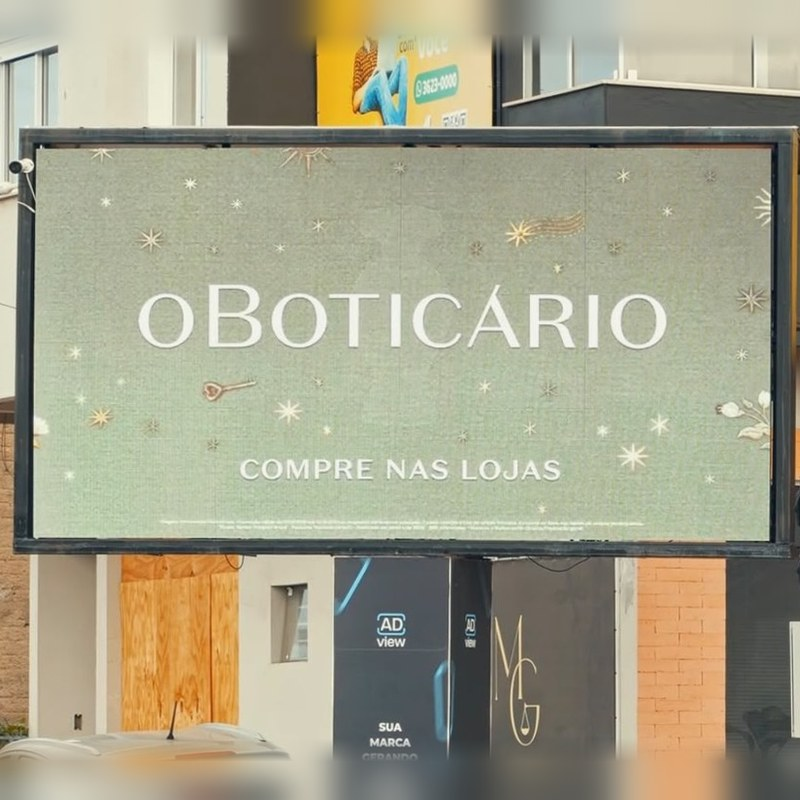
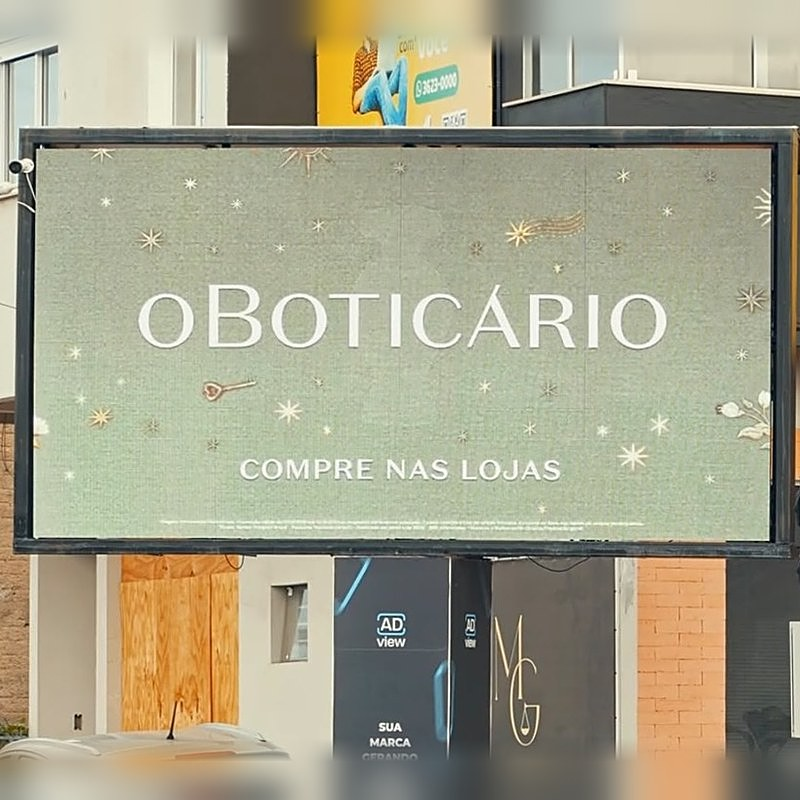
CUBO: grade da cidade limpa (sem etiquetas, sem zoom que corta, foto nítida de LED, crédito discreto)

diff --git a/cubo/index.html b/cubo/index.html
@@ -189,6 +189,7 @@ figure.ref:hover video,figure.ref:hover img{transform:scale(1.012);box-shadow:0 
 .cg{display:grid;grid-template-columns:minmax(0,1fr) minmax(0,1.15fr);background:#0a1530}
 .cg-left{display:flex;flex-direction:column;justify-content:center;padding-block:80px;padding-left:max(48px,env(safe-area-inset-left,0px));padding-right:48px}
 .cg-left p.t{max-width:30em}
+.cg-cred{font-size:12px;color:var(--muted);margin-top:28px;opacity:.75}
 .cg-grid{display:grid;grid-template-columns:repeat(3,minmax(0,1fr))}
 .tile{margin:0;aspect-ratio:1/1;max-width:100%;position:relative;overflow:hidden}
 .tile.tx{background:#f3f7fd;color:#0a1530;display:flex;flex-direction:column;align-items:center;justify-content:center;text-align:center;padding:18px;transition:background .35s}
@@ -197,8 +198,8 @@ figure.ref:hover video,figure.ref:hover img{transform:scale(1.012);box-shadow:0 
 .tile.tx:hover{background:#0092FF}
 .tile.tx:hover b{color:#fff;transform:scale(1.08)}
 .tile.tx:hover span{color:#e8f3ff}
-.tile.im img{width:100%;height:100%;object-fit:cover;display:block;transition:transform .7s cubic-bezier(.2,.7,.2,1),filter .5s;filter:saturate(.9)}
-.tile.im:hover img{transform:scale(1.08);filter:saturate(1.15)}
+.tile.im img{width:100%;height:100%;object-fit:cover;display:block;transition:filter .5s;filter:saturate(.92) brightness(.94)}
+.tile.im:hover img{filter:saturate(1.12) brightness(1.04)}
 .tile.im figcaption{position:absolute;left:10px;bottom:8px;font-size:11px;color:#fff;background:#020b1fb0;padding:3px 8px;border-radius:99px;opacity:.85}
 .tile.lg{background:#f3f7fd;display:flex;align-items:center;justify-content:center}
 .tile.lg img{width:46%;filter:brightness(0) saturate(100%) invert(14%) sepia(37%) saturate(3000%) hue-rotate(205deg) brightness(70%);transition:transform .6s cubic-bezier(.2,.7,.2,1)}
@@ -431,16 +432,17 @@ figure.ref:hover video,figure.ref:hover img{transform:scale(1.012);box-shadow:0 
       <p class="eyebrow">Para a cidade</p>
       <h2>O que <span class="b">Tubarão ganha</span> com o CUBO.</h2>
       <p class="t">A Prefeitura apoia o projeto porque o CUBO vai virar um <b>marco do centro</b>, um patrimônio da cidade. Mais atenção para quem tem loja e serviço por perto, e um espaço para eventos e campanhas de interesse da população.</p>
+      <p class="cg-cred">Fotos do cubo: referência RZK Digital, São Paulo. Demais fotos: painéis da ADmídia em Tubarão.</p>
     </div>
     <div class="cg-grid">
       <div class="tile tx"><b>Marco</b><span>um novo símbolo do centro de Tubarão</span></div>
-      <figure class="tile im"><img src="g_marco.jpg" alt="CUBO de LED em praça à noite"><figcaption>Referência: RZK Digital</figcaption></figure>
+      <figure class="tile im"><img src="g_marco.jpg" alt="CUBO de LED em praça à noite"></figure>
       <div class="tile tx"><b>Noite</b><span>luz e movimento no centro depois que o comércio fecha</span></div>
-      <figure class="tile im"><img src="g_cidade.jpg" alt="Centro de Tubarão visto do alto ao entardecer"><figcaption>Tubarão · painel de LED da ADmídia</figcaption></figure>
+      <figure class="tile im"><img src="g_cidade.jpg?v=3" alt="Painel de LED da ADmídia em Tubarão"></figure>
       <div class="tile lg"><img src="logo_v.png" alt="ADmídia"></div>
-      <figure class="tile im"><img src="g_sp.jpg" alt="CUBO de LED em São Paulo"><figcaption>Referência: RZK Digital, SP</figcaption></figure>
+      <figure class="tile im"><img src="g_sp.jpg?v=3" alt="CUBO de LED em São Paulo"></figure>
       <div class="tile tx"><b>Inédito</b><span>formato das capitais, o primeiro da região</span></div>
-      <figure class="tile im"><img src="g_boti.jpg" alt="O Boticário em painel de LED da ADmídia"><figcaption>O Boticário no LED da ADmídia</figcaption></figure>
+      <figure class="tile im"><img src="g_boti.jpg?v=3" alt="O Boticário em painel de LED da ADmídia"></figure>
       <div class="tile tx"><b>Marcas</b><span>grandes marcas investindo no centro da cidade</span></div>
     </div>
   </div>
